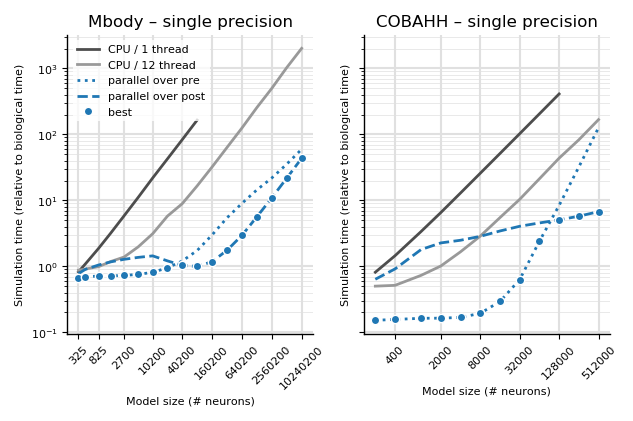
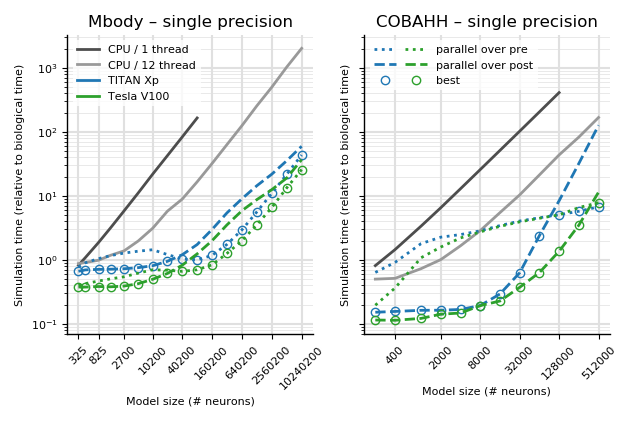
Compare two GPUs in the algorithm comparison

diff --git a/plot_comparisons.py b/plot_comparisons.py
@@ -56,17 +56,22 @@ def plot_total_comparisons(benchmarks, machine_names, GPU_names, ax, title, lege
 
 def plot_total_comparisons_only_GPU(benchmarks, reference_benchmarks, GPU_names,
                                     reference_labels, ax, title, legend=False,
-                                    algorithm_details=False):
+                                    algorithm_details=False, select_benchmarks=None):
     colors = mpl.cm.tab10.colors
+    if select_benchmarks is None:
+        select_benchmarks = np.arange(len(benchmarks))
+    ref_handles = []
     for idx, (reference_benchmark, reference_label) in enumerate(zip(reference_benchmarks, reference_labels)):
         c = (0.3*(idx+1), 0.3*(idx+1), 0.3*(idx+1))
-        ax.plot(np.log(reference_benchmark['n_neurons'].values),
-                reference_benchmark['duration_run_rel']['amin'],
-                '-', label=reference_label, color=c)
-
+        ref_handles.append(ax.plot(np.log(reference_benchmark['n_neurons'].values),
+                                   reference_benchmark['duration_run_rel']['amin'],
+                                   '-', label=reference_label, color=c)[0])
+    algo_handles = []
     for idx, (benchmark, machine_name, GPU_name) in enumerate(zip(benchmarks,
                                                                   machine_names,
                                                                   GPU_names)):
+        if idx not in select_benchmarks:
+            continue
         # We do the log scale for the x axis manually -- easier to get the ticks/labels right
         # Only use Brian2GeNN GPU and maximum number of threads
         max_threads = benchmark.loc[benchmark['device'] == 'cpp_standalone']['n_threads'].max()
@@ -79,22 +84,22 @@ def plot_total_comparisons_only_GPU(benchmarks, reference_benchmarks, GPU_names,
 
         name = GPU_name # '{} – {}'.format(machine_name, GPU_name)
         if algorithm_details:
-            ax.plot(np.log(gpu_results_pre['n_neurons'].values),
-                    gpu_results_pre['duration_run_rel']['amin'],
-                    ':', color=colors[idx], label='parallel over pre')
-            ax.plot(np.log(gpu_results_post['n_neurons'].values),
-                    gpu_results_post['duration_run_rel']['amin'],
-                    '--', color=colors[idx], label='parallel over post')
+            algo_handles.append(ax.plot(np.log(gpu_results_pre['n_neurons'].values),
+                                        gpu_results_pre['duration_run_rel']['amin'],
+                                        ':', color=colors[idx], label='parallel over pre')[0])
+            algo_handles.append(ax.plot(np.log(gpu_results_post['n_neurons'].values),
+                                        gpu_results_post['duration_run_rel']['amin'],
+                                        '--', color=colors[idx], label='parallel over post')[0])
         if algorithm_details:
             style, label, mec, fc = 'o', 'best', colors[idx], 'none'
         else:
             style, label, mec, fc = 'o-', name, 'white', colors[idx]
 
-        ax.plot(np.log(gpu_results_pre['n_neurons'].values),
-                np.amin(np.vstack([gpu_results_pre['duration_run_rel']['amin'],
-                                   gpu_results_post['duration_run_rel']['amin']]),
-                        axis=0),
-                style, label=label, color=fc, mec=mec)
+        algo_handles.append(ax.plot(np.log(gpu_results_pre['n_neurons'].values),
+                                    np.amin(np.vstack([gpu_results_pre['duration_run_rel']['amin'],
+                                                       gpu_results_post['duration_run_rel']['amin']]),
+                                            axis=0),
+                                    style, label=label, color=fc, mec=mec)[0])
         used_n_neuron_values = benchmark['n_neurons'].unique()
     # Make sure we show the xtick label for the highest value
     if len(used_n_neuron_values) % 2 == 0:
@@ -111,8 +116,25 @@ def plot_total_comparisons_only_GPU(benchmarks, reference_benchmarks, GPU_names,
            ylabel='Simulation time (relative to biological time)',
            yscale='log',
            title=title)
-    if legend:
+    if algorithm_details:
+        from matplotlib.lines import Line2D
+        # Manually put a legend
+        if legend:
+            # legend for the CPUs/GPUs
+            lines = ref_handles + [Line2D([0], [0], color=colors[idx], lw=2)
+                                   for idx in select_benchmarks]
+            labels = reference_labels + [GPU_names[idx] for idx in select_benchmarks]
+            ax.legend(lines, labels, loc='upper left',
+                      frameon=True, edgecolor='none')
+        else:
+            labels = (['', '', '']*(len(select_benchmarks) - 1) +
+                      ['parallel over pre', 'parallel over post', 'best'])
+            ax.legend(algo_handles, labels, loc='upper left',
+                      frameon=True, edgecolor='none', ncol=len(select_benchmarks),
+                      columnspacing=0.)
+    elif legend:
         ax.legend(loc='upper left', frameon=True, edgecolor='none')
+
 
 
 def plot_necessary_runtime_across_gpus(benchmarks, reference_benchmark,
@@ -162,10 +184,10 @@ if __name__ == '__main__':
     target_dir = 'benchmark_results/comparisons'
     if not os.path.exists(target_dir):
         os.mkdir(target_dir)
-    benchmark_dirs_pre = ['benchmark_results/2018-09-13_c6a4ae8d7e8b',
+    benchmark_dirs_post = ['benchmark_results/2018-09-13_c6a4ae8d7e8b',
                           'benchmark_results/2018-09-13_inf900777/',
                           'benchmark_results/2018-09-14_jwc09n009/']
-    benchmark_dirs_post = ['benchmark_results/2018-09-24_c3594791990b',
+    benchmark_dirs_pre = ['benchmark_results/2018-09-24_c3594791990b',
                            'benchmark_results/2018-09-21_inf900777',
                            'benchmark_results/2018-09-25_jwc09n012/']
 
@@ -272,14 +294,15 @@ if __name__ == '__main__':
                                        (reference['n_threads'] == 12)]
             reference1 = reference.loc[(reference['device'] == 'cpp_standalone') &
                                        (reference['n_threads'] == 1)]
-            plot_total_comparisons_only_GPU(benchmarks[:1], [reference1,
+            plot_total_comparisons_only_GPU(benchmarks, [reference1,
                                                               reference12],
-                                            gpu_names[:1],
+                                            gpu_names,
                                             ['CPU / 1 thread',
                                              'CPU / 12 thread'],
                                             ax_detail, title + ' – ' + precision,
                                             legend=(ax_detail == axes_gpu_algos[0]),
-                                            algorithm_details=True)
+                                            algorithm_details=True,
+                                            select_benchmarks=[0, 2])
 
         fig.tight_layout()
         fig.savefig(os.path.join(target_dir,
